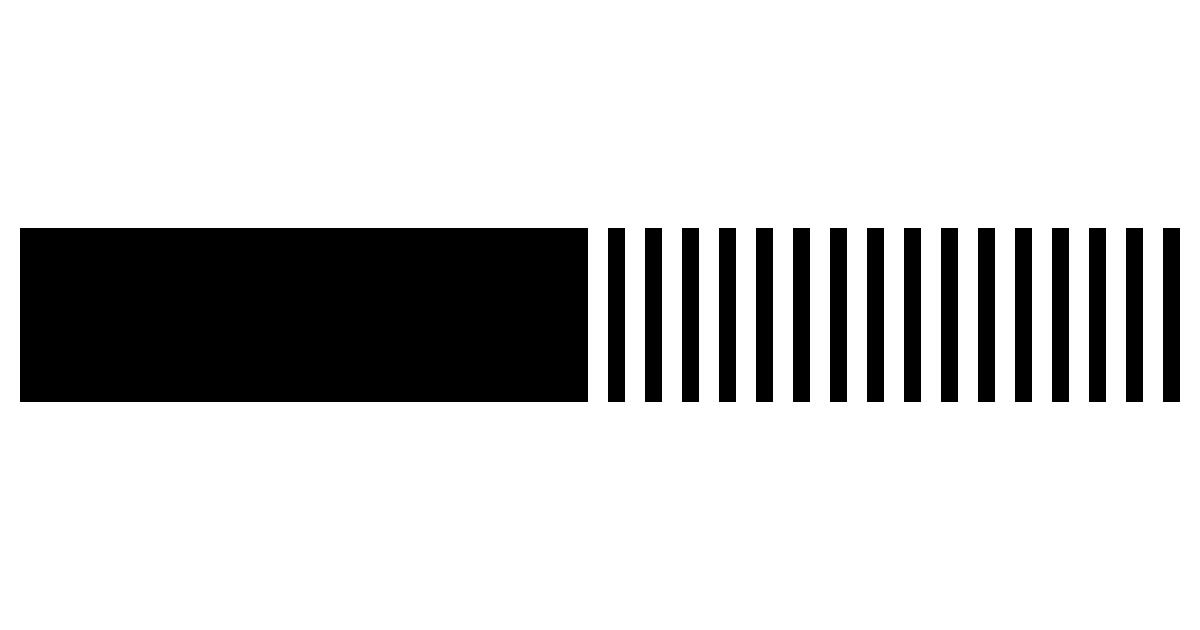
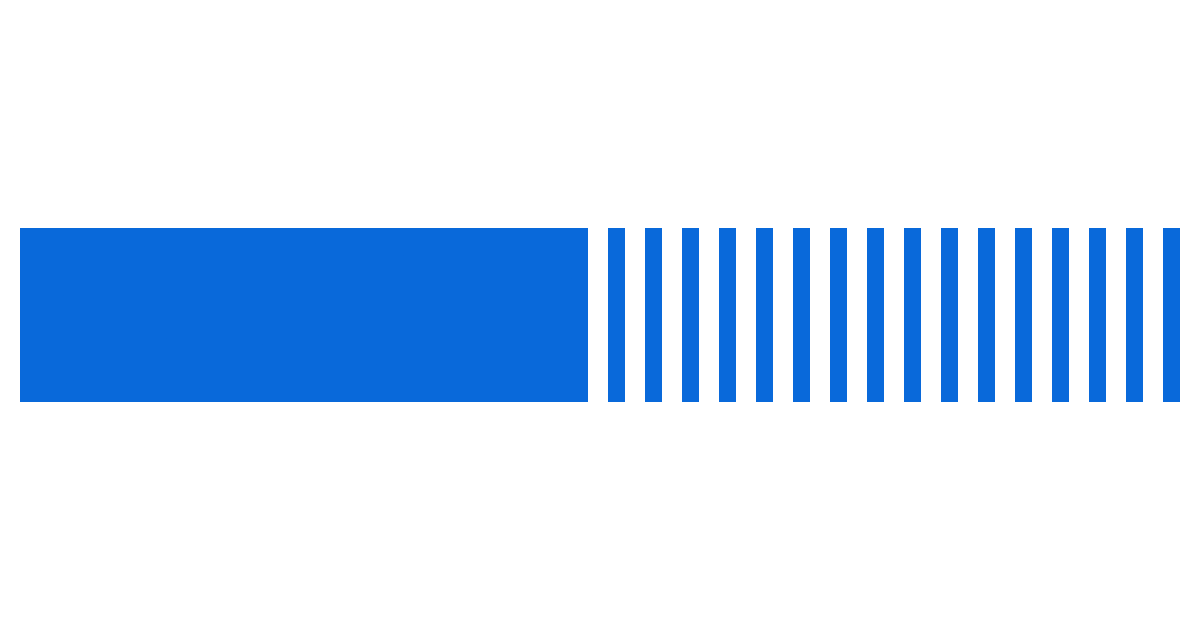
chore: changing accent color to blue
I'm taking inspiration from github light theme for these modification

Changed region(s): [[0.0, 0.3619, 0.9867, 0.6635]]

diff --git a/static/terminal.css b/static/terminal.css
@@ -1,7 +1,7 @@
 :root {
   --background: #ffffff;
   --foreground: #000000;
-  --accent: #000000;
+  --accent: #0969da;
   --radius: 0;
   --font-size: 1rem;
   --line-height: 1.54em;
@@ -44,6 +44,27 @@ body {
 
 ::placeholder {
   color: color-mix(in srgb var(--foreground) 50%, black);
+}
+
+h1 {
+  text-decoration: underline;
+  text-decoration-thickness: 2px;
+  text-underline-offset: calc(var(--font-size) * 0.2);
+}
+
+h1,
+h2 {
+  text-transform: uppercase;
+}
+
+h1,
+h2,
+h3,
+h4,
+h5,
+h6 {
+  font-size: calc(var(--font-size) * 1.1);
+  letter-spacing: 0.04em;
 }
 
 h1,
